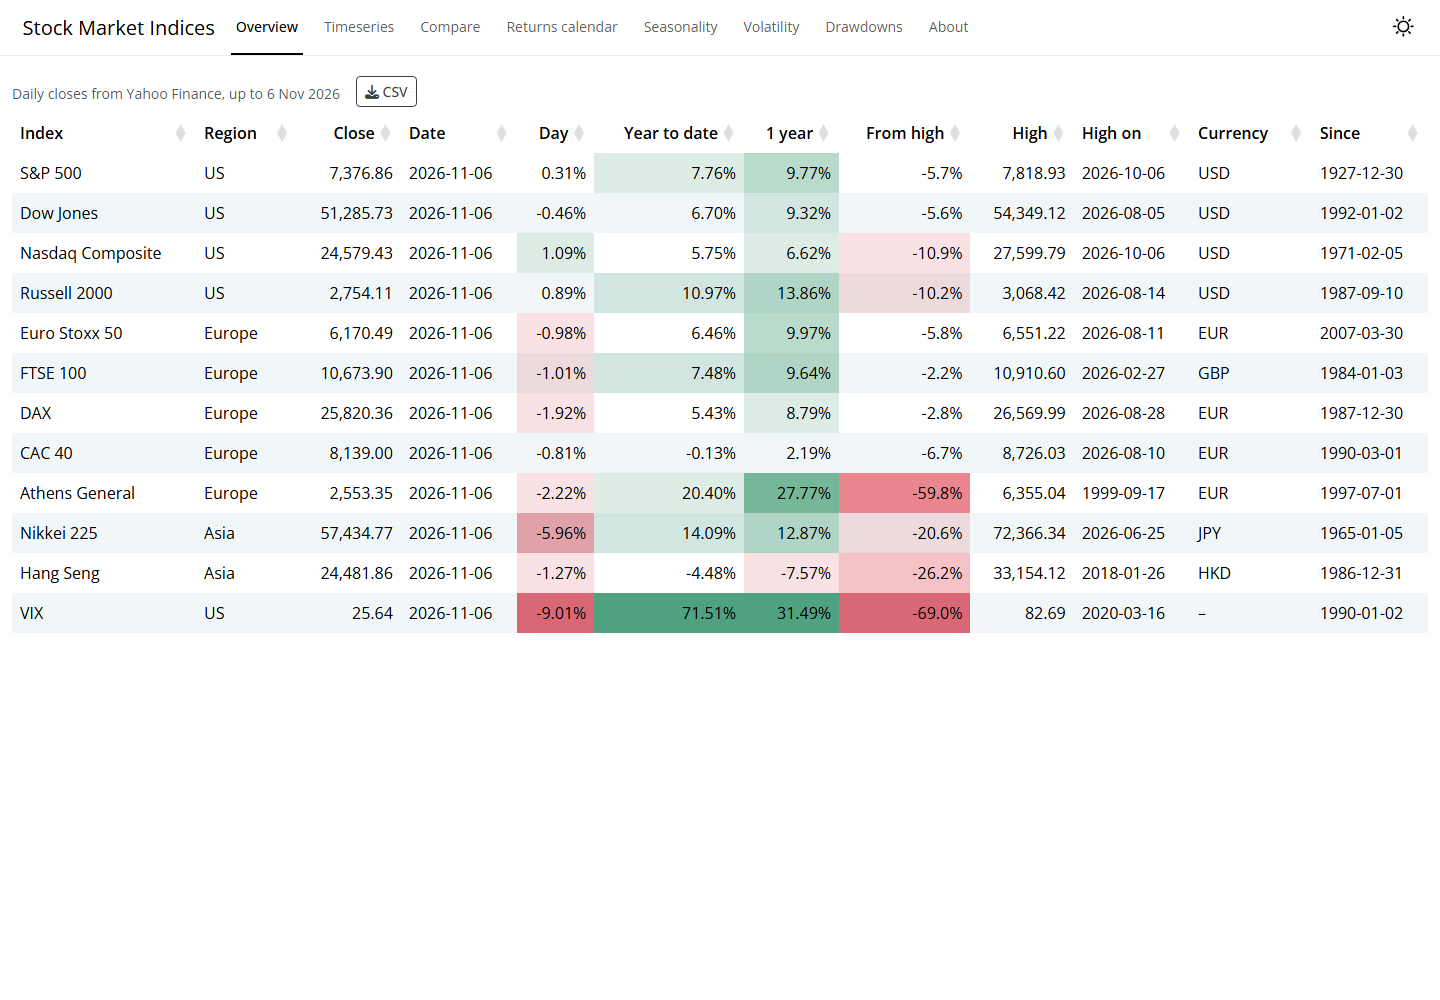
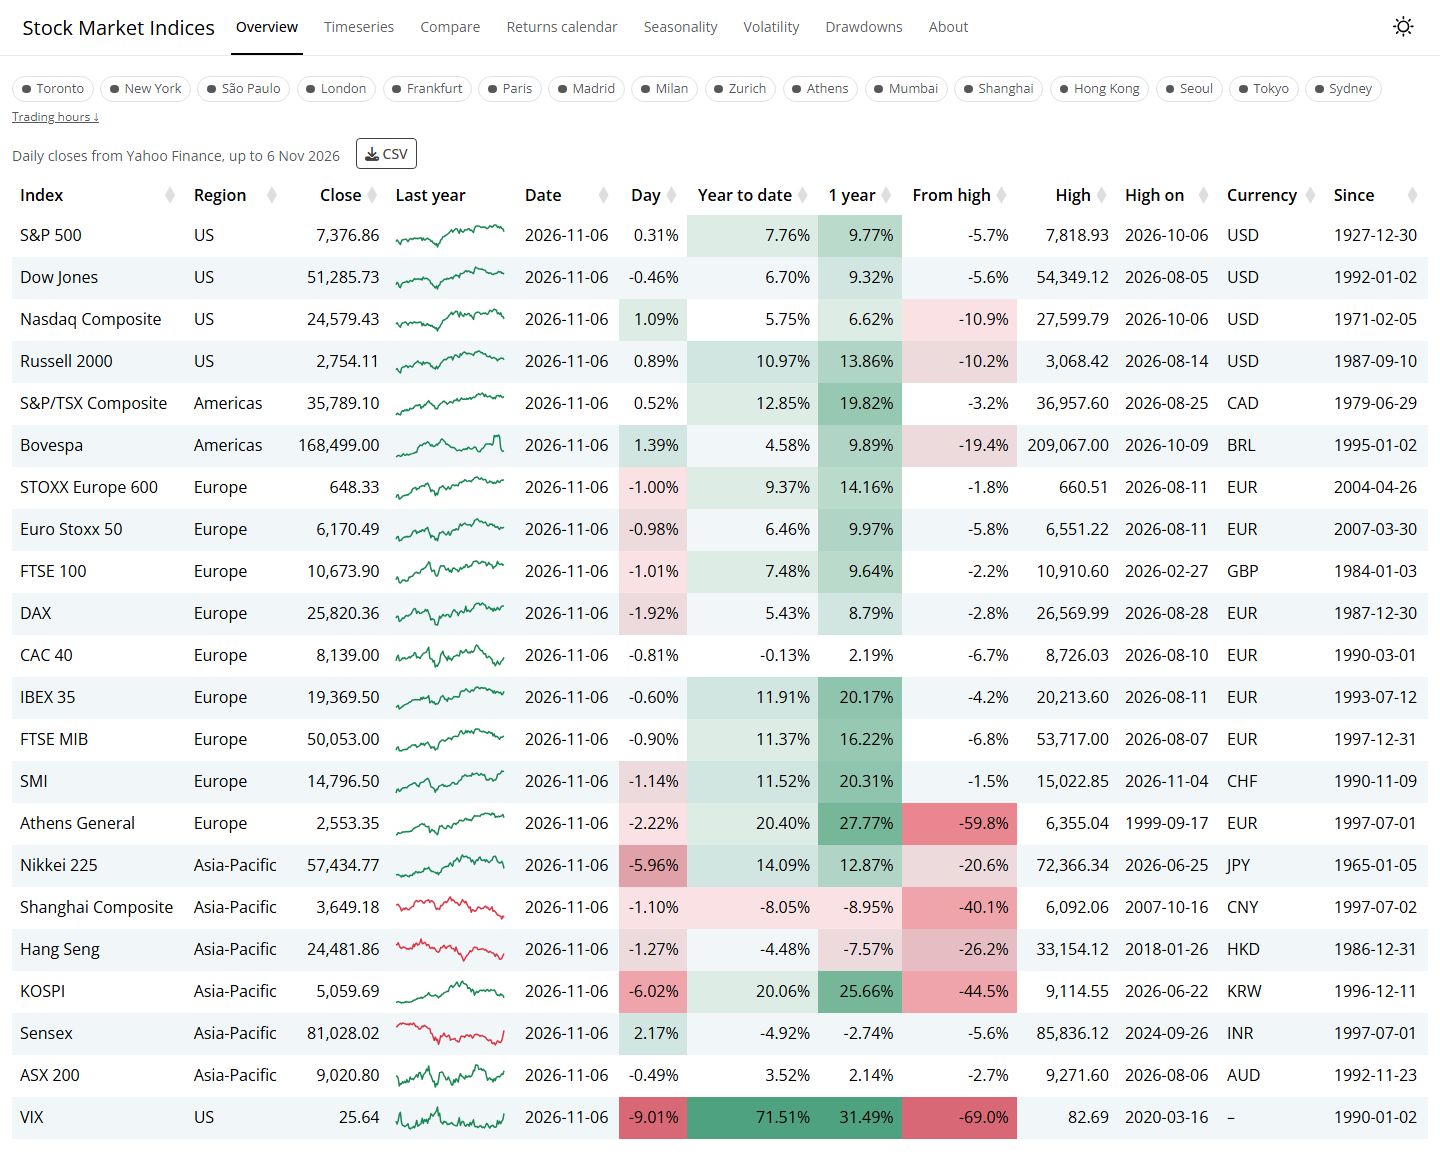
Refresh overview screenshot and package manifest
Update the overview screenshot and its README caption, and point CRAN package metadata to cloud.r-project.org.

diff --git a/README.md b/README.md
@@ -137,7 +137,7 @@ Indices are picked by their label, such as `"S&P 500"`, and `get_indices()` list
 ## Screenshots
 
 ### Overview
-![Where the indices stand: the last close, the change on the day, this year and over a year, and the distance from the all-time high](https://github.com/sedzinfo/golemstockindices/raw/main/screenshots/stock1.png)
+![The 16 exchanges, from Toronto to Sydney, with a dot for open or closed, and where the 22 indices stand: the last close with a line of the last year, the change on the day, this year and over a year, and the distance from the all-time high](https://github.com/sedzinfo/golemstockindices/raw/main/screenshots/stock1.png)
 
 ### Index Chart
 ![Candlestick, volume and drawdown chart of the S&P 500 since 1927, on a log scale](https://github.com/sedzinfo/golemstockindices/raw/main/screenshots/stock2.png)
